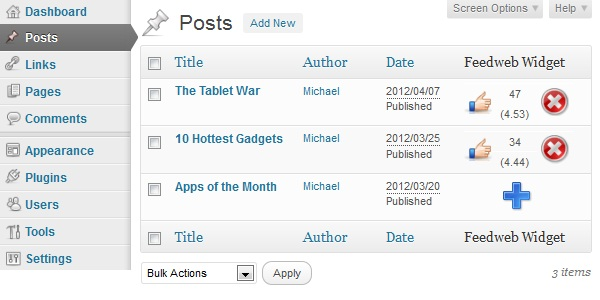
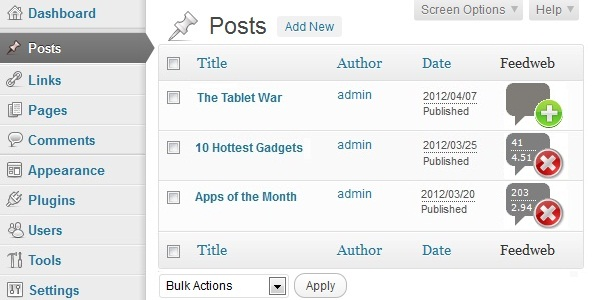
git-svn-id: https://plugins.svn.wordpress.org/feedweb/trunk@532274 b8457f37-d9ea-0310-8a92-e5e31aec5664

Changed region(s): [[0.0, 0.0, 0.99, 1.0], [0.69, 0.0, 0.99, 0.09], [0.0, 0.75, 0.12, 0.81]]

diff --git a/feedweb.php b/feedweb.php
@@ -4,7 +4,7 @@ Plugin Name: Feedweb
 Plugin URI: http://wordpress.org/extend/plugins/feedweb/
 Description: Expose your blog to the Feedweb reader's community, promote your views, get a comprehensive and detailed feedback from your readers.
 Author: Feedweb
-Version: 1.2.4
+Version: 1.2.5
 Author URI: http://feedweb.net
 */
 
@@ -68,7 +68,7 @@ function AddFeedwebColumn($columns)
 {
 	// Check if user is admin
 	if (current_user_can('manage_options'))
-		$columns['feedweb'] = __("Feedweb Widget", "FWTD");
+		$columns['feedweb'] = __("Feedweb", "FWTD");
 	return $columns;
 }
 
@@ -80,38 +80,38 @@ function FillFeedwebCell($id)
 	{
 		// Get post's age
 		$days = GetPostAge($id);
-		echo "<div style='text-align: center; width: 120px;'>";
 		if ($days > GetMaxPostAge())
 		{
 			$format = __("Cannot insert widget into a post published %d days ago", "FWTD");
 			$tip = sprintf($format, $days);
-			$src = plugin_dir_url(__FILE__)."/Warning.png";
+			$src = GetFeedwebUrl()."IMG/Warning.png";
 			echo "<img src='$src' title='$tip'/>";
 		}
 		else 
 		{
-			$src = plugin_dir_url(__FILE__)."/Insert.png";
+			$src = GetFeedwebUrl()."IMG/Insert.png";
 			$url = plugin_dir_url(__FILE__)."widget_dialog.php?wp_post_id=".$id."&KeepThis=true&TB_iframe=true&height=345&width=675";
 			echo "<input alt='".$url."' class='thickbox' title='".__("Insert Widget", "FWTD")."' type='image' src='$src'/>";
 		}
-		echo "</div>";
 	}
 	else			// Created - display 'Remove' button
 	{
+		$src = GetFeedwebUrl()."IMG/Remove.png";
 		$data = GetPostVotes($pac);
 		$votes = $data['votes'];
 		$score = $data['score'];
 		if ($score != "")
-			$score = "($score)";
-		$src = plugin_dir_url(__FILE__)."/Remove.png";
+		{
+			$format = __("Remove Widget (%s Votes. Average Score: %s)", "FWTD");
+			$title = sprintf($format, $votes, $score);
+			if ($data['url'] != "")
+				$src = GetFeedwebUrl().$data['url'];
+		}
+		else
+			$title = __("Remove Widget (No Votes)", "FWTD");
+			
 		$url = plugin_dir_url(__FILE__)."widget_remove.php?wp_post_id=".$id."&KeepThis=true&TB_iframe=true&height=125&width=575";
-		$button = "<input alt='$url' class='thickbox' title='".__("Remove Widget", "FWTD")."' type='image' src='$src'/>";
-
-		echo "<link rel='stylesheet' type='text/css' href='".plugin_dir_url(__FILE__)."/Feedweb.css'/>".
-			"<table class='FeedwebPostDataTable'><tbody><tr><td rowspan='2'>".
-			"<img src='".plugin_dir_url(__FILE__)."/Score.png' title='".__("Votes / (Average Score)", "FWTD")."'/></td>".
-			"<td style='width: 50px;'>$votes</td><td rowspan='2'>$button</td></tr><tr><td>$score</td></tr>".
-			"</tbody></table>";
+		echo "<input alt='$url' class='thickbox' title='$title' type='image' src='$src'/>";
 	}
 }
 
@@ -350,6 +350,12 @@ function FeedwebSettingsLink($links)
 {
 	$settings_link = "<a href='options-general.php?page=".basename(__FILE__)."'>".__("Settings")."</a>";
 	array_unshift($links, $settings_link);
+	/*
+	$title = __("Quick Tour", "FWTD");
+	$url = plugin_dir_url(__FILE__)."feedweb_tour.php?Mode=QT&KeepThis=true&TB_iframe=true&height=200&width=200";
+	$quick_tour_link = "<a class='thickbox' title='$title' href='$url'>$title</a>";
+	array_unshift($links, $quick_tour_link);
+	*/
 	return $links;
 }
 

diff --git a/widget_dialog.php b/widget_dialog.php
@@ -340,7 +340,7 @@ function YesNoQuestionPrompt()
 							<tr style="height: 36px;">
 								<td/>
 								<td colspan="4"> 
-									<input type='text' id='UrlText' name='UrlText' value='<?php GetPostUrl();?>' style='width:100%;'/> 
+									<input type='text' id='UrlText' name='UrlText' value='<?php GetPostUrl();?>' style='width:100%;' readonly="readonly"/> 
 								</td>
 								<td/>
 							</tr>

diff --git a/feedweb_util.php b/feedweb_util.php
@@ -195,6 +195,7 @@ function GetPostVotes($pac)
 		if ($dom->documentElement->tagName == "BANNER")
 		{
 			$data['id'] = $dom->documentElement->getAttribute("id");
+			$data['url'] = $dom->documentElement->getAttribute("url");
 			$data['votes'] = $dom->documentElement->getAttribute("votes");
 			$data['score'] = $dom->documentElement->getAttribute("score");
 			return $data;

diff --git a/feedweb_tour.php b/feedweb_tour.php
@@ -1,0 +1,8 @@
+<html>
+	<head>
+		<title>Hello Feedweb</title>
+	</head>
+	<body>
+		<span>Hi everybody!!!</span>
+	</body>
+</html>
